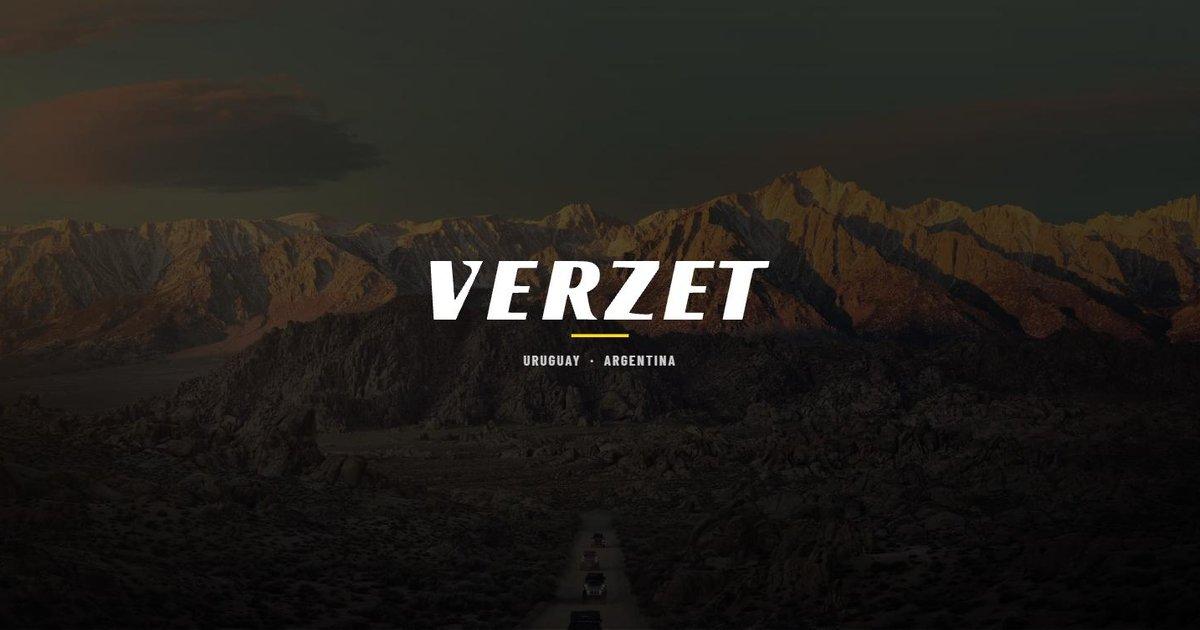
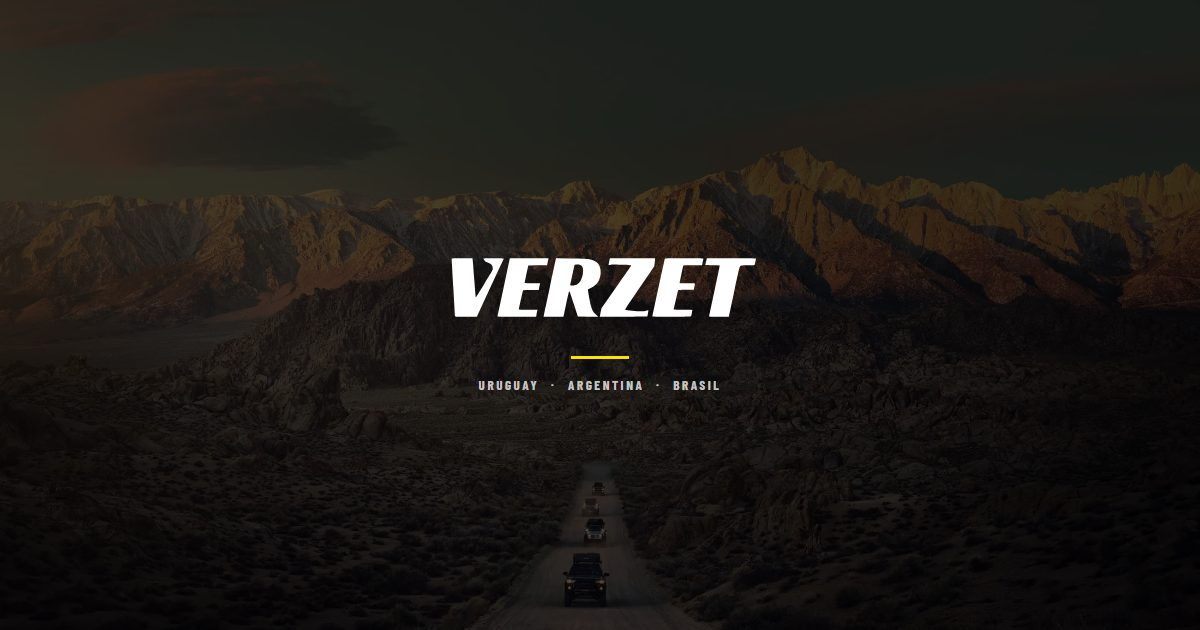
feat: reincorporar Brasil (franja, overlay Em breve, copy SEO y og-image)
Restaura strip--br y el overlay 'Em breve' desde 68917b8, adaptado al
tap-to-expand mobile. Vuelve el ratio de hover a 1.9:0.55 para 3 franjas,
el preload de br.webp, el copy de meta/OG/Twitter, verzet.com.br en el
sameAs del JSON-LD y se regenera og-image.jpg con los tres países.

diff --git a/index.html b/index.html
@@ -4,19 +4,19 @@
   <meta charset="UTF-8">
   <meta name="viewport" content="width=device-width, initial-scale=1.0">
   <title>Verzet</title>
-  <meta name="description" content="Verzet — Equipate para la aventura. Uruguay · Argentina.">
+  <meta name="description" content="Verzet — Equipate para la aventura. Uruguay · Argentina · Brasil.">
   <meta name="theme-color" content="#0d0d0d">
   <link rel="canonical" href="https://verzet.com/">
 
   <meta property="og:type" content="website">
   <meta property="og:title" content="Verzet">
-  <meta property="og:description" content="Verzet — Equipate para la aventura. Uruguay · Argentina.">
+  <meta property="og:description" content="Verzet — Equipate para la aventura. Uruguay · Argentina · Brasil.">
   <meta property="og:url" content="https://verzet.com/">
   <meta property="og:image" content="https://verzet.com/assets/img/og-image.jpg">
 
   <meta name="twitter:card" content="summary_large_image">
   <meta name="twitter:title" content="Verzet">
-  <meta name="twitter:description" content="Verzet — Equipate para la aventura. Uruguay · Argentina.">
+  <meta name="twitter:description" content="Verzet — Equipate para la aventura. Uruguay · Argentina · Brasil.">
   <meta name="twitter:image" content="https://verzet.com/assets/img/og-image.jpg">
 
   <script type="application/ld+json">
@@ -29,7 +29,8 @@
     "sameAs": [
       "https://verzet.com",
       "https://verzet.com.uy",
-      "https://verzet.com.ar"
+      "https://verzet.com.ar",
+      "https://verzet.com.br"
     ]
   }
   </script>
@@ -44,6 +45,7 @@
   <noscript><link href="https://fonts.googleapis.com/css2?family=Barlow+Condensed:wght@700;800&family=Barlow:wght@300;400;500&display=swap" rel="stylesheet"></noscript>
   <link rel="preload" as="image" href="assets/img/bg/uy.webp">
   <link rel="preload" as="image" href="assets/img/bg/ar.webp">
+  <link rel="preload" as="image" href="assets/img/bg/br.webp">
   <link rel="stylesheet" href="styles.css">
 </head>
 <body>
@@ -91,7 +93,31 @@
       </div>
     </a>
 
+    <!-- Brasil -->
+    <a href="https://verzet.com.br" class="strip strip--br" aria-label="Verzet Brasil">
+      <div class="strip__bg"></div>
+      <div class="strip__overlay"></div>
+      <div class="strip__inner">
+        <div class="strip__border-b"></div>
+        <div class="strip__border-s"></div>
+        <div class="strip__content">
+          <span class="strip__tld">Brasil</span>
+          <span class="strip__domain-full">verzet.com.br</span>
+          <span class="strip__cta">Acessar</span>
+        </div>
+      </div>
+    </a>
+
   </main>
+
+  <div class="coming-overlay" id="coming-overlay" role="dialog" aria-modal="true" aria-label="Próximamente">
+    <div class="coming-content">
+      <p class="coming-domain" id="coming-domain"></p>
+      <p class="coming-label" id="coming-label"></p>
+      <button class="coming-back" id="coming-close">← Volver</button>
+    </div>
+    <div class="coming-border-b"></div>
+  </div>
 
   <script>
     // Intro: sincroniza el logo y las 3 franjas en un único reveal, en vez de que
@@ -153,13 +179,49 @@
       });
     }
 
+    // Coming soon overlay (Brasil)
+    const overlay      = document.getElementById('coming-overlay');
+    const comingLabel  = document.getElementById('coming-label');
+    const comingDomain = document.getElementById('coming-domain');
+    const closeBtn     = document.getElementById('coming-close');
+    const comingSoon   = { br: { label: 'Em breve', domain: 'verzet.com.br' } };
+    let lastTrigger = null;
+
+    function openComing(strip) {
+      lastTrigger = strip;
+      comingLabel.textContent  = comingSoon.br.label;
+      comingDomain.textContent = comingSoon.br.domain;
+      overlay.classList.add('active');
+      closeBtn.focus();
+    }
+
+    function closeOverlay() {
+      overlay.classList.remove('active');
+      if (lastTrigger) { lastTrigger.focus(); lastTrigger = null; }
+    }
+
     strips.forEach(strip => {
       strip.addEventListener('click', (e) => {
-        if (!mobileMQ.matches) return;
-        if (strip.classList.contains('is-expanded')) return; // ya expandida: navega
-        e.preventDefault();
-        setStripStates(strip);
+        if (mobileMQ.matches && !strip.classList.contains('is-expanded')) {
+          e.preventDefault();
+          setStripStates(strip);
+          return;
+        }
+        // Ya expandida (mobile) o desktop: Brasil abre el overlay, el resto navega
+        if (strip.classList.contains('strip--br')) {
+          e.preventDefault();
+          openComing(strip);
+        }
       });
+    });
+
+    closeBtn.addEventListener('click', closeOverlay);
+    overlay.addEventListener('click', e => { if (e.target === overlay) closeOverlay(); });
+    document.addEventListener('keydown', e => {
+      if (!overlay.classList.contains('active')) return;
+      if (e.key === 'Escape') closeOverlay();
+      // Único elemento enfocable dentro del modal: mantiene el foco atrapado ahí.
+      if (e.key === 'Tab') { e.preventDefault(); closeBtn.focus(); }
     });
 
     mobileMQ.addEventListener('change', (e) => {

diff --git a/styles.css b/styles.css
@@ -107,12 +107,22 @@ html, body {
 .strips:has(.strip--uy:hover) .strip--uy,
 .strips:has(.strip--uy:focus-visible) .strip--uy,
 .strips:has(.strip--ar:hover) .strip--ar,
-.strips:has(.strip--ar:focus-visible) .strip--ar { flex: 1.4; }
+.strips:has(.strip--ar:focus-visible) .strip--ar,
+.strips:has(.strip--br:hover) .strip--br,
+.strips:has(.strip--br:focus-visible) .strip--br { flex: 1.9; }
 
 .strips:has(.strip--uy:hover) .strip--ar,
 .strips:has(.strip--uy:focus-visible) .strip--ar,
+.strips:has(.strip--uy:hover) .strip--br,
+.strips:has(.strip--uy:focus-visible) .strip--br,
 .strips:has(.strip--ar:hover) .strip--uy,
-.strips:has(.strip--ar:focus-visible) .strip--uy { flex: 0.7; }
+.strips:has(.strip--ar:focus-visible) .strip--uy,
+.strips:has(.strip--ar:hover) .strip--br,
+.strips:has(.strip--ar:focus-visible) .strip--br,
+.strips:has(.strip--br:hover) .strip--uy,
+.strips:has(.strip--br:focus-visible) .strip--uy,
+.strips:has(.strip--br:hover) .strip--ar,
+.strips:has(.strip--br:focus-visible) .strip--ar { flex: 0.55; }
 
 /* ── BACKGROUND ────────────────────────────────────────── */
 .strip__bg {
@@ -134,6 +144,7 @@ html, body {
 
 .strip--uy .strip__bg { background-image: url('assets/img/bg/uy.webp'); }
 .strip--ar .strip__bg { background-image: url('assets/img/bg/ar.webp'); }
+.strip--br .strip__bg { background-image: url('assets/img/bg/br.webp'); }
 
 /* ── OVERLAY ────────────────────────────────────────────── */
 .strip__overlay {
@@ -400,3 +411,97 @@ html, body {
 @media (max-height: 480px) {
   .strip__cta { display: none; }
 }
+
+/* ── COMING SOON OVERLAY ────────────────────────────────── */
+.coming-overlay {
+  position: fixed;
+  inset: 0;
+  background:
+    linear-gradient(to top, rgba(255, 224, 0, 0.28) 0%, transparent 60%),
+    var(--bg-base);
+  z-index: 100;
+  display: flex;
+  align-items: center;
+  justify-content: center;
+  opacity: 0;
+  pointer-events: none;
+  transition: opacity 0.4s var(--ease);
+}
+
+.coming-overlay.active {
+  opacity: 1;
+  pointer-events: auto;
+}
+
+.coming-content {
+  display: flex;
+  flex-direction: column;
+  align-items: center;
+  text-align: center;
+  z-index: 1;
+  opacity: 0;
+  transform: translateY(10px);
+  transition: opacity 0.4s var(--ease) 0.12s, transform 0.4s var(--ease) 0.12s;
+}
+
+.coming-overlay.active .coming-content {
+  opacity: 1;
+  transform: translateY(0);
+}
+
+.coming-domain {
+  font-family: var(--font-display);
+  font-weight: 700;
+  font-size: clamp(2.2rem, 5.5vw, 5.5rem);
+  color: rgba(255, 255, 255, 0.6);
+  letter-spacing: 0.08em;
+  text-transform: lowercase;
+  line-height: 1;
+}
+
+.coming-label {
+  font-family: var(--font-display);
+  font-weight: 800;
+  font-size: clamp(1.1rem, 2vw, 1.6rem);
+  color: var(--accent);
+  letter-spacing: 0.1em;
+  text-transform: uppercase;
+  margin-top: 1.1rem;
+}
+
+.coming-back {
+  font-family: var(--font-body);
+  font-weight: 500;
+  font-size: clamp(0.6rem, 0.9vw, 0.75rem);
+  letter-spacing: 0.35em;
+  text-transform: uppercase;
+  margin-top: 3rem;
+  background: transparent;
+  color: rgba(255, 255, 255, 0.82);
+  border: 1px solid rgba(255, 255, 255, 0.3);
+  cursor: pointer;
+  padding: 0.7em 2em 0.7em calc(2em + 0.35em);
+  outline: 1px solid transparent;
+  outline-offset: -6px;
+  transition: color 0.25s ease, outline-color 0.3s var(--ease), outline-offset 0.3s var(--ease);
+}
+
+.coming-back:hover {
+  color: #fff;
+  outline-color: var(--accent);
+  outline-offset: 4px;
+}
+
+.coming-border-b {
+  position: absolute;
+  bottom: 0;
+  left: 0;
+  right: 0;
+  height: 3px;
+  background: var(--accent);
+  transform: scaleX(0);
+  transform-origin: left center;
+  transition: transform 0.6s var(--ease) 0.2s;
+}
+
+.coming-overlay.active .coming-border-b { transform: scaleX(1); }
